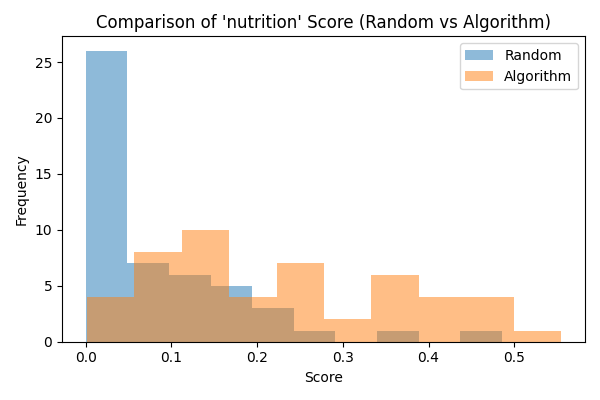
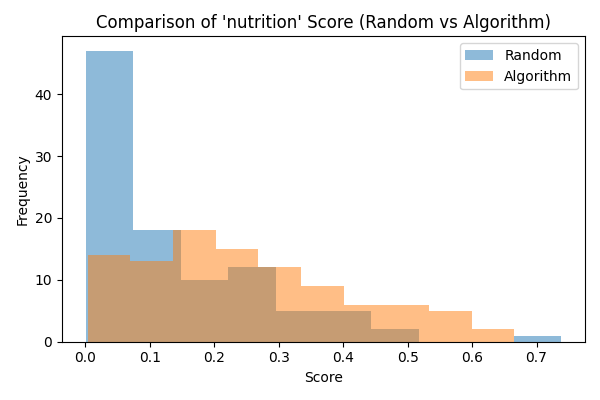
added averages

diff --git a/src/eval/evaluation.py b/src/eval/evaluation.py
@@ -83,14 +83,14 @@ class MealPlanEvaluator:
                     if servings <= 0:
                         continue
                     for p_name in pantry:
-                        if p_name.lower() == ing_key.lower() or p_name.lower() in ing_key.lower() or ing_key.lower() in p_name.lower():
+                        if p_name.lower() == ing_key.lower():
                             used_servings += float(servings)
                             break
             else:
                 if isinstance(ingredients_list, list):
                     for ing_name in ingredients_list:
                         for p_name in pantry:
-                            if p_name.lower() == str(ing_name).lower() or p_name.lower() in str(ing_name).lower() or str(ing_name).lower() in p_name.lower():
+                            if p_name.lower() == str(ing_name).lower():
                                 used_servings += 1.0
                                 break
 

diff --git a/src/main.py b/src/main.py
@@ -173,7 +173,7 @@ def main():
     
 
     if args.compare:
-        N = 50
+        N = 100
         results_random = []
         results_algo = []
 
@@ -243,6 +243,19 @@ def main():
             plt.tight_layout()
             plt.savefig(f"compare_{m}.png")
             plt.close()
+            
+        print("\n" + "=" * 60)
+        print("AVERAGE SCORES (Random vs Algorithm)")
+        print("=" * 60)
+
+        summary = pd.DataFrame({
+            "Random_Avg": df_random.mean(),
+            "Algo_Avg": df_algo.mean()
+        })
+
+        print(summary)
+
+        summary.to_csv("compare_summary.csv")
 
         return
 
